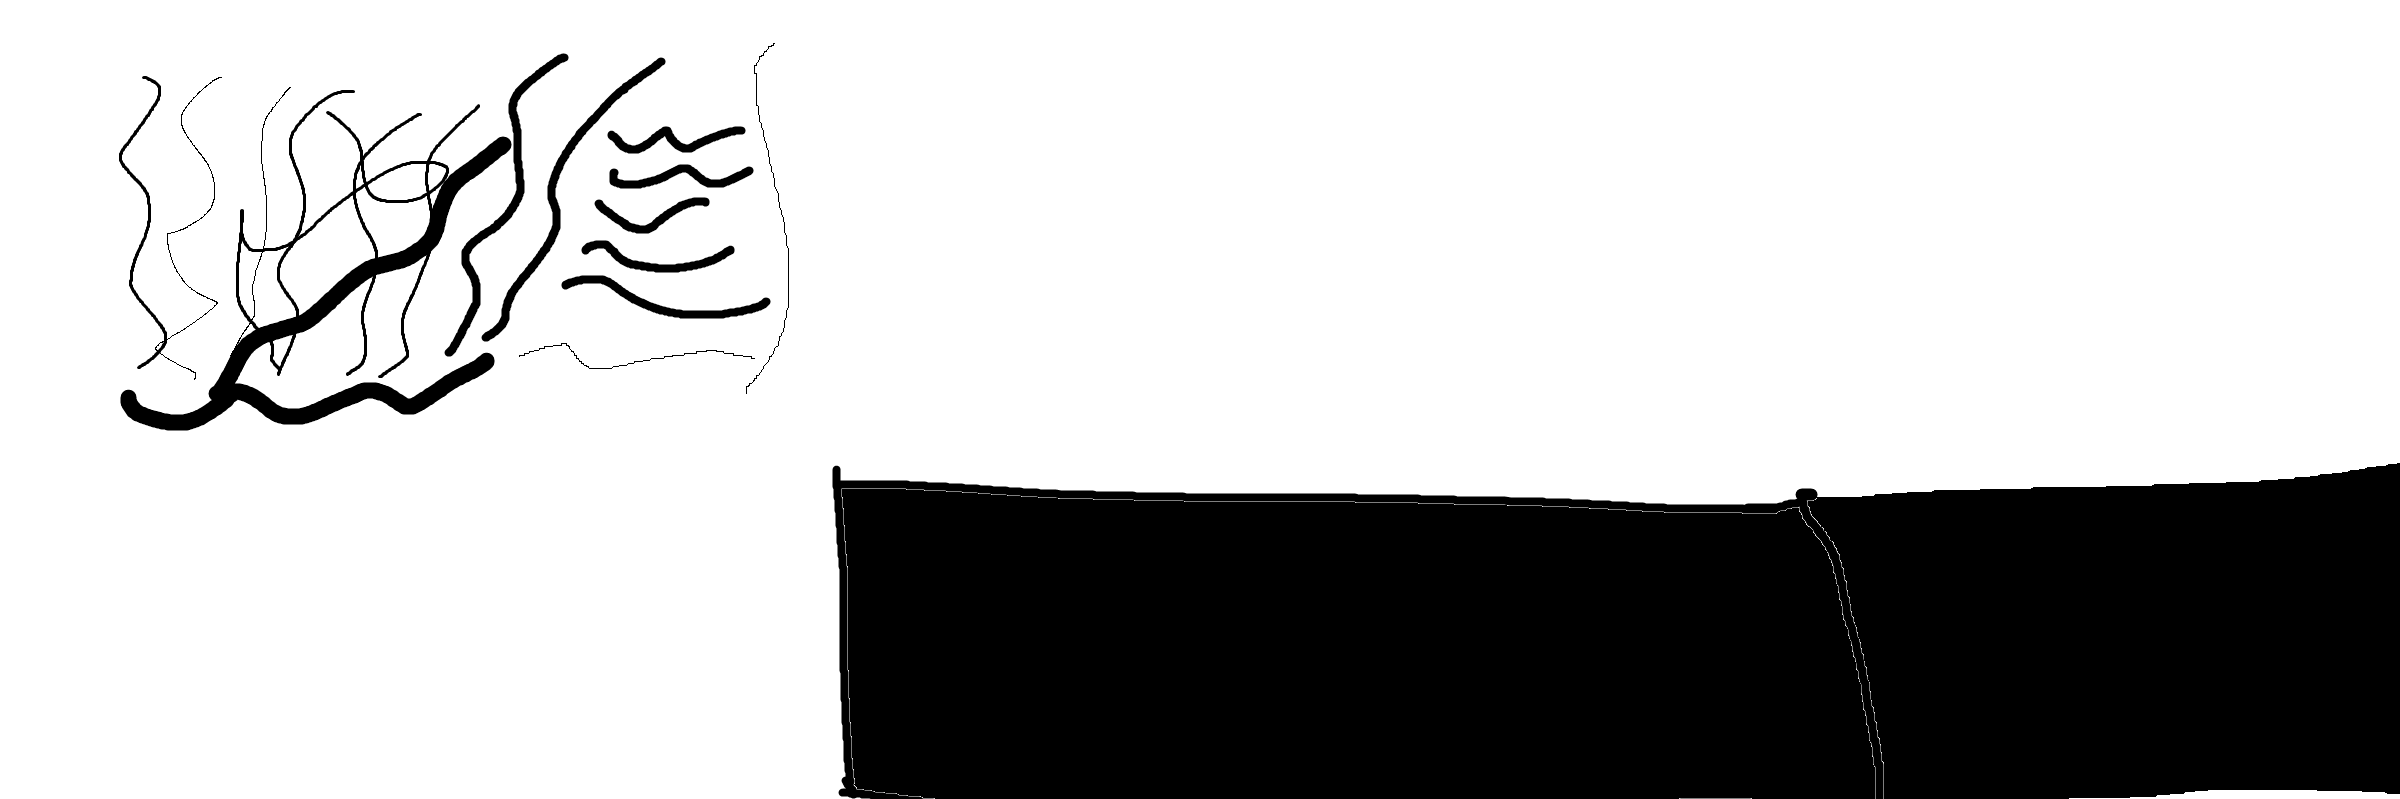
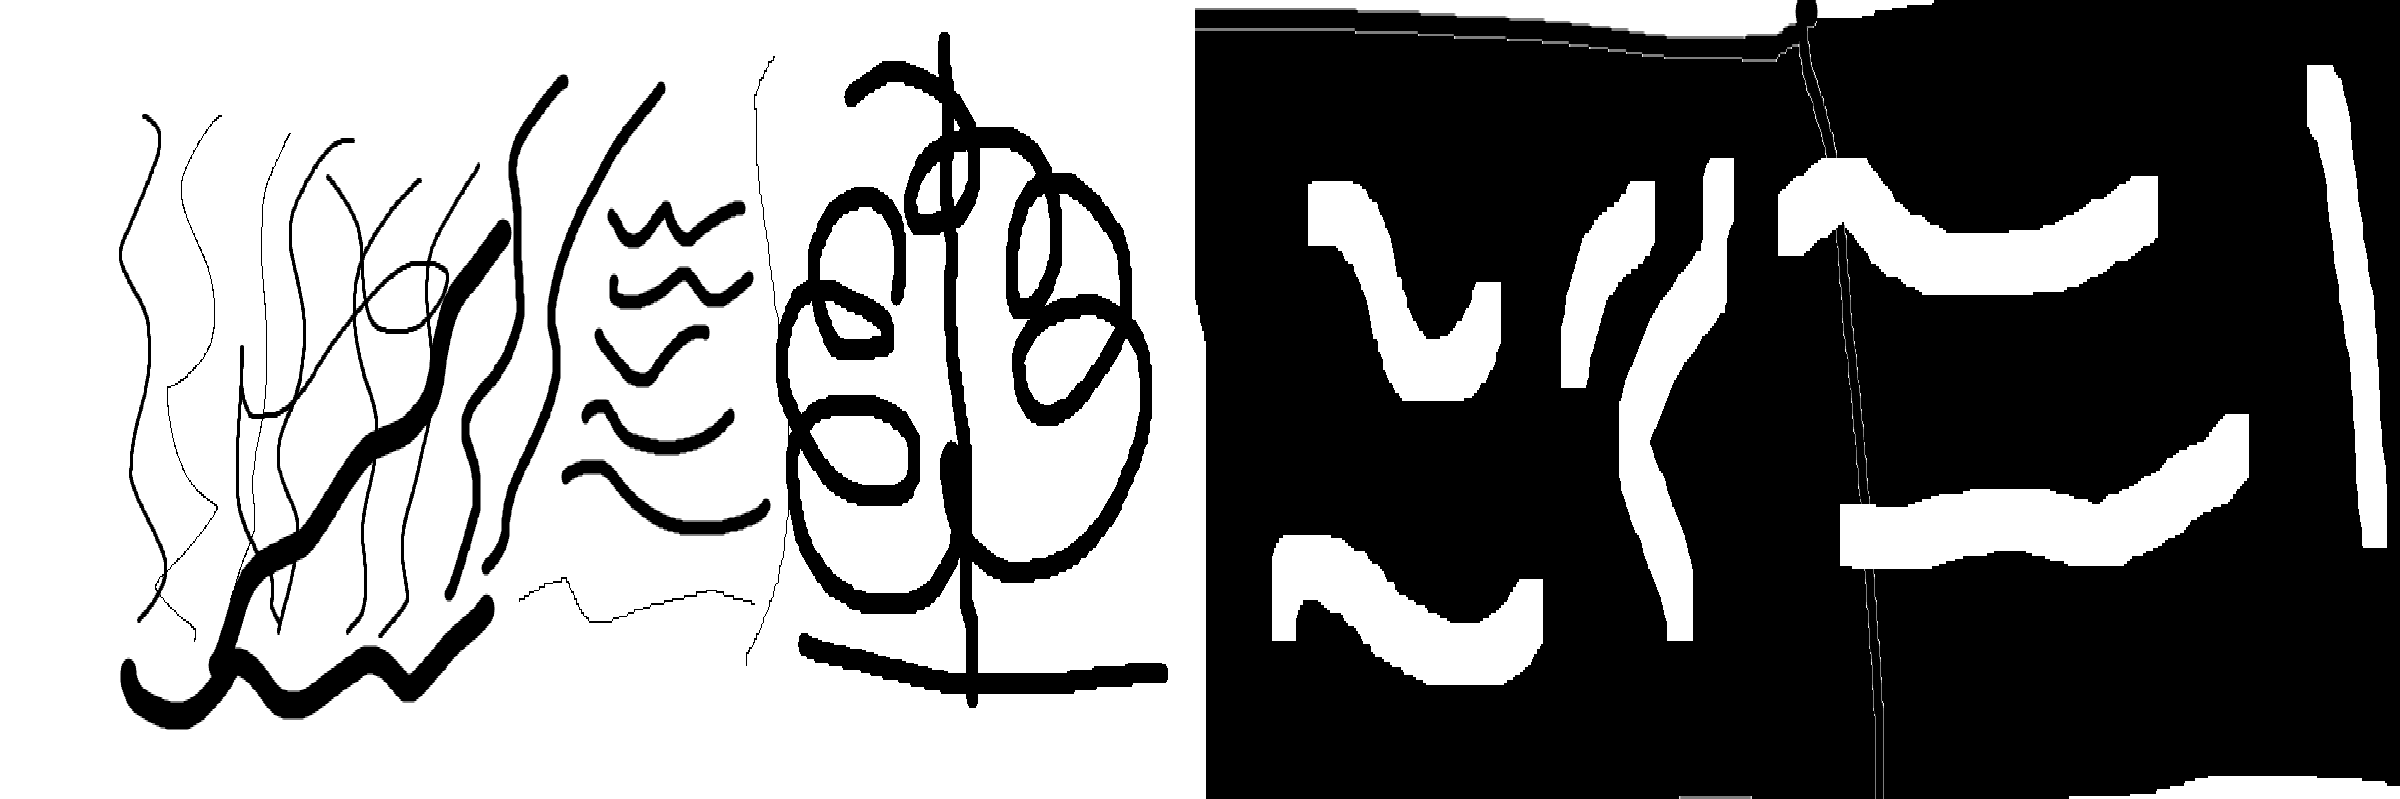
New files

diff --git a/image_processing.py b/image_processing.py
@@ -1,0 +1,151 @@
+import cv2
+import numpy as np
+from skimage import io, util
+from skimage.filters import threshold_otsu
+
+
+image_path = './ltg_video_int_img.png'
+def create_mask(image_path, side):
+    """
+    Loads an image, applies processing, crops to the specified side,
+    and returns a binary mask.
+    """
+    img = cv2.imread(image_path, cv2.IMREAD_GRAYSCALE)
+    if img is None:
+        print(f"Error: Could not load image from {image_path}")
+        return None
+
+    adjusted = cv2.convertScaleAbs(img, alpha=1.1, beta=-10)
+    clahe = cv2.createCLAHE(clipLimit=4.0, tileGridSize=(8,8))
+    img_eq = clahe.apply(adjusted)
+
+    height, width = img.shape
+    if side == 'left':
+        cropped_side = img_eq[:, :width//2]
+        thresh = threshold_otsu(cropped_side)
+        mask = cropped_side > thresh
+
+        # Clean up noise using morphological opening
+        kernel = np.ones((3, 3), np.uint8)
+        cleaned_mask = cv2.morphologyEx(util.img_as_ubyte(mask), cv2.MORPH_OPEN, kernel)
+        return cleaned_mask
+    elif side == 'right':
+        # Create a full-sized black canvas for the right half
+        right_mask_canvas = np.zeros((height, width // 2), dtype=np.uint8)
+
+        # Focus on the right-most 25% of the image to generate the mask
+        feature_area = img_eq[:, width * 3 // 4:]
+        thresh = threshold_otsu(feature_area)
+        small_mask = feature_area > thresh
+
+        # Place the small mask onto the canvas at its correct positional offset
+        start_col = width // 4
+        right_mask_canvas[:, start_col:] = util.img_as_ubyte(small_mask)
+
+        #Full side version for other images
+        #cropped_side = img_eq[:, width // 2]
+        #thresh = threshold_otsu(cropped_side)
+        #mask = cropped_side > thresh
+
+        # Clean up noise using morphological opening
+        #kernel = np.ones((3, 3), np.uint8)
+        #right_mask_canvas = cv2.morphologyEx(util.img_as_ubyte(mask), cv2.MORPH_OPEN, kernel)
+
+
+        return right_mask_canvas
+    else:
+        return None
+
+def dice_coefficient(mask1, mask2):
+    """Calculates the Dice similarity coefficient between two binary masks."""
+    mask1 = mask1.astype(bool)
+    mask2 = mask2.astype(bool)
+    intersection = np.sum(mask1 & mask2)
+    total = np.sum(mask1) + np.sum(mask2)
+    return 2. * intersection / total if total > 0 else 1.0
+
+def analyze_vertical_reflection(left_mask, right_mask):
+    """Analyzes the vertical reflection symmetry of an image."""
+
+    flipped_right_mask = cv2.flip(right_mask, 1)
+
+    return dice_coefficient(left_mask, flipped_right_mask)
+
+
+def find_best_translation(left_mask, right_mask):
+    """
+    Finds the optimal horizontal translation of the right mask to maximize
+    overlap with the left mask.
+    """
+    best_score = -1
+    best_shift = 0
+    height, width = left_mask.shape
+
+    print("Searching for optimal horizontal translation...")
+    # Iterate through all possible horizontal shifts
+    for shift in range(-width, width):
+        # Create translation matrix
+        M = np.float32([[1, 0, shift], [0, 1, 0]])
+        # Apply the translation
+        translated_right_mask = cv2.warpAffine(right_mask, M, (width, height))
+
+        score = dice_coefficient(left_mask, translated_right_mask)
+
+        if score > best_score:
+            best_score = score
+            best_shift = shift
+
+    return best_shift, best_score
+
+# Generate masks
+left_mask = create_mask(image_path, 'left')
+right_mask = create_mask(image_path, 'right')
+
+if left_mask is not None and right_mask is not None:
+    # Save the initial masks
+    io.imsave('left_mask.png', left_mask)
+    io.imsave('right_mask.png', right_mask)
+    #print("Saved left_mask.png and right_mask.png")
+
+    # Find the best translation instead of flipping
+    best_shift, best_score = find_best_translation(left_mask, right_mask)
+    # Manual translation modifier to line up the bolt properly
+    modified_shift = best_shift# + 40
+    print(f"Best Dice Similarity Score with translation: {best_score:.4f} at a shift of {modified_shift} pixels.")
+
+    # Create the visualization overlay
+    original_color_img = cv2.imread(image_path)
+    img_height, img_width, _ = original_color_img.shape
+    left_color_half = original_color_img[:, :img_width // 2]
+
+    # Vertical Reflection Score
+    v_reflect_score = analyze_vertical_reflection(left_mask, right_mask)
+    print(f"Vertical Reflection Score:   {v_reflect_score:.4f}")
+
+    # Apply the best translation to the right mask
+    height, width = right_mask.shape
+    M = np.float32([[1, 0, modified_shift], [0, 1, 0]])
+    translated_right_mask = cv2.warpAffine(right_mask, M, (width, height))
+    io.imsave('translated_right_mask.png', translated_right_mask)
+    print("Best Shift:", modified_shift)
+
+    # Create a red highlight from the right side masks
+    highlight = np.zeros_like(left_color_half)
+    highlight_vert = np.zeros_like(left_color_half)
+    highlight[translated_right_mask == 255] = [255, 0, 0]  # Red in RGB
+    highlight_vert[cv2.flip(right_mask, 1) == 255] = [255, 0, 0]
+    # Blend the highlight onto the left color image
+    overlay = cv2.addWeighted(left_color_half, 0.75, highlight, 1, 0)
+    overlay_vert = cv2.addWeighted(left_color_half, 0.75, highlight_vert, 1, 0)
+    # Save the visualization
+    io.imsave('overlap_visualization.png', overlay)
+    io.imsave('overlay_flip.png', overlay_vert)
+
+if v_reflect_score > best_score and v_reflect_score > 0.25:
+    print("Vertical Reflection is shown with higher dice similarity score.")
+elif best_score > v_reflect_score and best_score > 0.25:
+    print("Horizontal translation is shown with higher dice similarity score.")
+elif best_score and v_reflect_score < 0.25:
+    print("Dice correlation shows no reflection of high significance.")
+else:
+    print("Cannot resolve what kind of reflection was found.")
